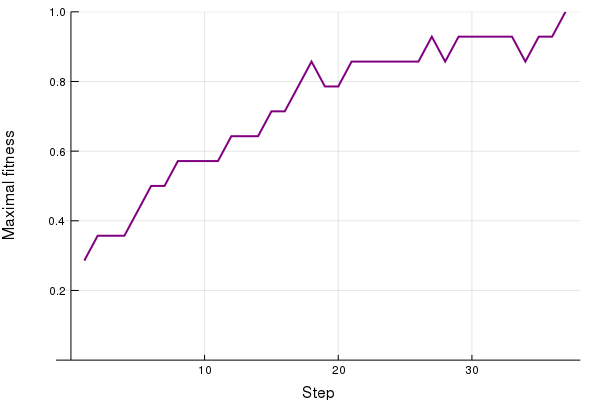
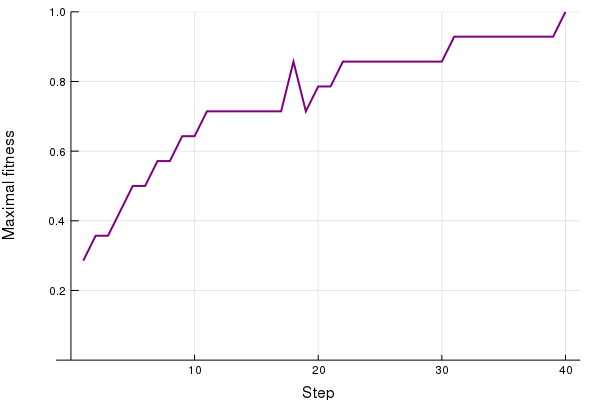
:bento: img update

diff --git a/content/lessons/control_flow.md b/content/lessons/control_flow.md
@@ -385,7 +385,7 @@ end
 
 ````
 foo
-bar
+foo
 bar
 bar
 foo
@@ -464,11 +464,11 @@ random_numbers
 
 ````
 5-element Array{Float64,1}:
- 0.006049467676602749
- 0.5167188572513395  
- 0.6579636754943798  
- 0.5176472115411923  
- 0.4565212221841062
+ 0.18947919317459827
+ 0.3114437148992948 
+ 0.9314197514498945 
+ 0.6721181334756403 
+ 0.09059449054796187
 ````
 
 
@@ -524,7 +524,7 @@ random_numbers[1]
 
 
 ````
-0.006049467676602749
+0.18947919317459827
 ````
 
 
@@ -545,7 +545,7 @@ random_numbers[length(random_numbers)]
 
 
 ````
-0.4565212221841062
+0.09059449054796187
 ````
 
 
@@ -563,7 +563,7 @@ random_numbers[end]
 
 
 ````
-0.4565212221841062
+0.09059449054796187
 ````
 
 
@@ -579,7 +579,7 @@ first(random_numbers)
 
 
 ````
-0.006049467676602749
+0.18947919317459827
 ````
 
 
@@ -590,7 +590,7 @@ last(random_numbers)
 
 
 ````
-0.4565212221841062
+0.09059449054796187
 ````
 
 
@@ -610,7 +610,7 @@ println(random_numbers[1])
 
 
 ````
-0.006049467676602749
+0.18947919317459827
 ````
 
 
@@ -621,7 +621,7 @@ println(random_numbers[3])
 
 
 ````
-0.6579636754943798
+0.9314197514498945
 ````
 
 
@@ -632,7 +632,7 @@ println(random_numbers[5])
 
 
 ````
-0.4565212221841062
+0.09059449054796187
 ````
 
 
@@ -662,9 +662,9 @@ end
 
 
 ````
-Position 1:	0.006049467676602749
-Position 3:	0.6579636754943798
-Position 5:	0.4565212221841062
+Position 1:	0.18947919317459827
+Position 3:	0.9314197514498945
+Position 5:	0.09059449054796187
 ````
 
 

diff --git a/content/capstones/genetic_algorithm.md b/content/capstones/genetic_algorithm.md
@@ -54,7 +54,7 @@ println(initial_guess)
 
 
 ````
-,bpbhotlxddj q
+acpjwqs.dt!jpu
 ````
 
 
@@ -120,7 +120,7 @@ offspring = first(parents)[1:cutoff] * last(parents)[cutoff+1:end]
 
 
 ````
-"vew.rpnitusxgm"
+"-asthiryzhyhxn"
 ````
 
 
@@ -146,26 +146,26 @@ reproduction(initial_guesses, ω.(initial_guesses, problem))
 
 ````
 500-element Array{String,1}:
- "-.lm,gvrc ?.kj"
- "ileg!kmatfjxae"
- "xmna,k-tbx.wgo"
- "xleh,vzdxt!-fx"
- "igluvxock?ages"
- "-ktqz!qeunvkkw"
- "quezg dlqc!yfw"
- "tpuohe ?uvbgpb"
- "dxs-- tskguvio"
- " vatbfyuwseohn"
+ "l -bbv!,gyyfvu"
+ "jamczaykw dlaf"
+ "h!fyyvej kx,y?"
+ "wjysgk!.xq?o f"
+ "zh,hmvx?j!lak-"
+ "ei!!.mciz .fgl"
+ "yh cxgdmimeypw"
+ "wu-ttlydq,ccex"
+ "yersto!j kx,y?"
+ "w.,milllu.v-e?"
  ⋮               
- "dxs-- zftkbgpb"
- "oufroq ?hq,vmf"
- "qfgduna!zjddn?"
- "zsx?.iyag? wux"
- "fjij.ka,ftw!ec"
- "aipk,otxboatud"
- "-.lm,kt?qee?!l"
- "o.wtnns.d?clve"
- "w,uy lb. adrw?"
+ "tist?qc-.datvv"
+ "ctajven?anpbj-"
+ "e.ctmkyil  tnk"
+ "pyc?xlae!pwbu?"
+ "-dg.q  pm,a eh"
+ " mjokv!,gyyfvu"
+ "t.zb,fwcemfxhv"
+ "dh!ztyisdyqwax"
+ ",qy,svayn!egp."
 ````
 
 

diff --git a/content/lessons/writing_functions.md b/content/lessons/writing_functions.md
@@ -75,16 +75,16 @@ darts
 
 ````
 10-element Array{Any,1}:
- (0.43862966864460784, 1.5125129088682252)
- (1.698755425981977, 1.2812775774283445)  
- (0.08744376564554113, 1.6399085975858236)
- (1.9026347778509058, 0.6702386186579643) 
- (0.7303401302582766, 0.680420395666403)  
- (1.8207706764067484, 0.8720519756347929) 
- (1.455566530874199, 1.0946977798130106)  
- (0.7757961309339345, 0.3783302190904254) 
- (0.6010441779048268, 0.3549168494326165) 
- (0.6938061944319376, 1.500572474816111)
+ (1.3509465082606833, 0.5919419314533743)  
+ (0.11921896553013323, 1.6644178267597738) 
+ (1.7961609984741638, 0.9460958136790554)  
+ (1.5908268841031004, 0.6671963536143743)  
+ (1.2325215791062942, 1.9288584333642436)  
+ (1.414156340774976, 1.2175877339193333)   
+ (1.9178031072417174, 0.05728769046465132) 
+ (0.49846366492168004, 0.41799158463479724)
+ (1.0747882616110171, 1.1080498426488372)  
+ (1.531270772527384, 1.4691565115882383)
 ````
 
 

diff --git a/content/primers/map_filter_reduce.md b/content/primers/map_filter_reduce.md
@@ -17,6 +17,8 @@ values based on them. After reading the lesson on [Control flow]({{< ref
 and `while`. But most tasks can actually be adressed using an approach which is
 even more simple: map/filter/reduce.
 
+Let's say we want to 
+
 ## Map
 
 ````julia

diff --git a/content/primers/advanced_control_flow.md b/content/primers/advanced_control_flow.md
@@ -71,12 +71,12 @@ end
 
 
 ````
-0.51
-0.82
+0.84
+0.95
+0.97
+0.75
+0.36
 0.52
-0.88
-0.43
-0.62
 ````
 
 

diff --git a/content/primers/parallelcomputing.md b/content/primers/parallelcomputing.md
@@ -27,8 +27,8 @@ addprocs(2)
 
 ````
 2-element Array{Int64,1}:
- 8
- 9
+ 10
+ 11
 ````
 
 
